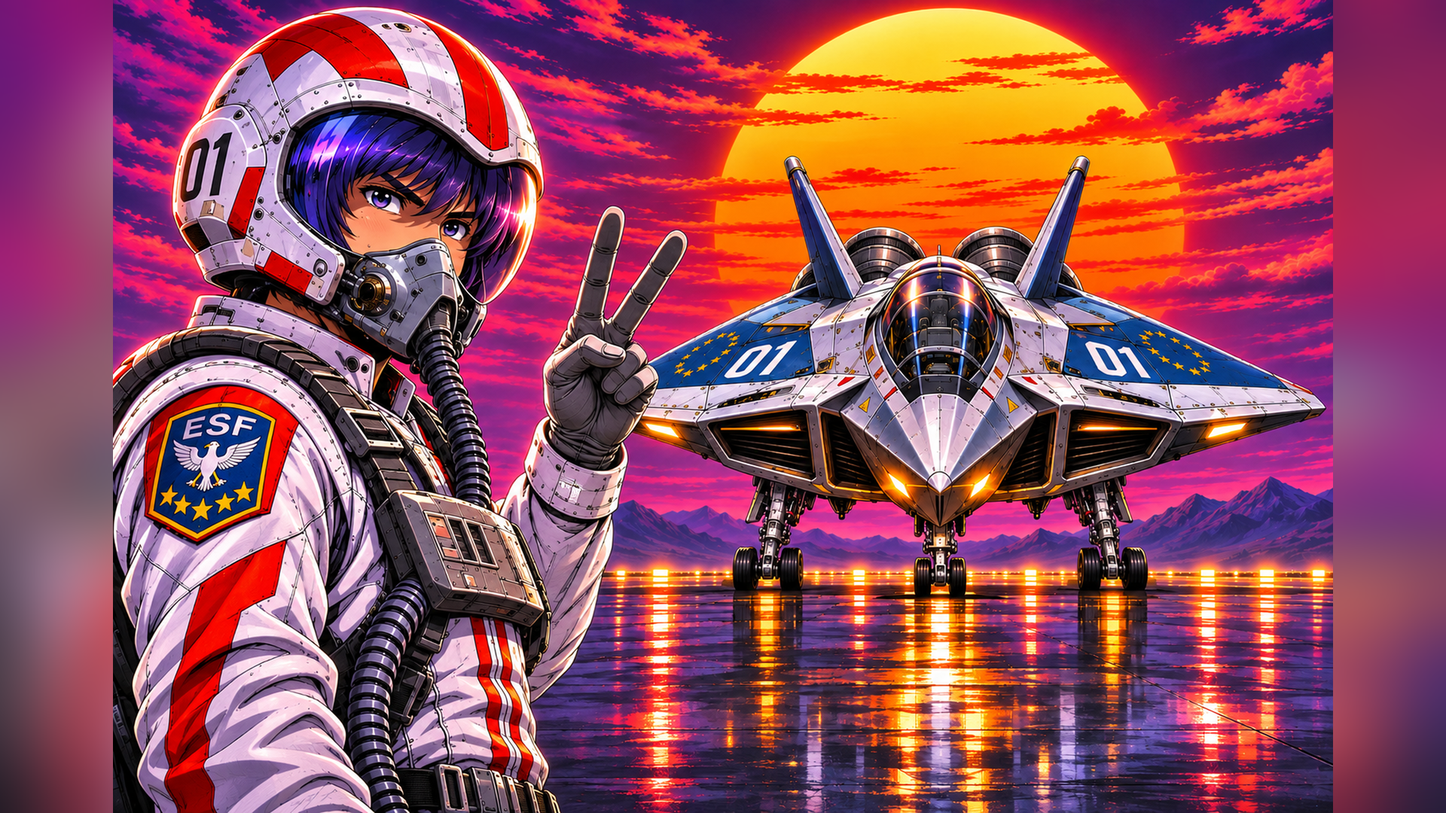
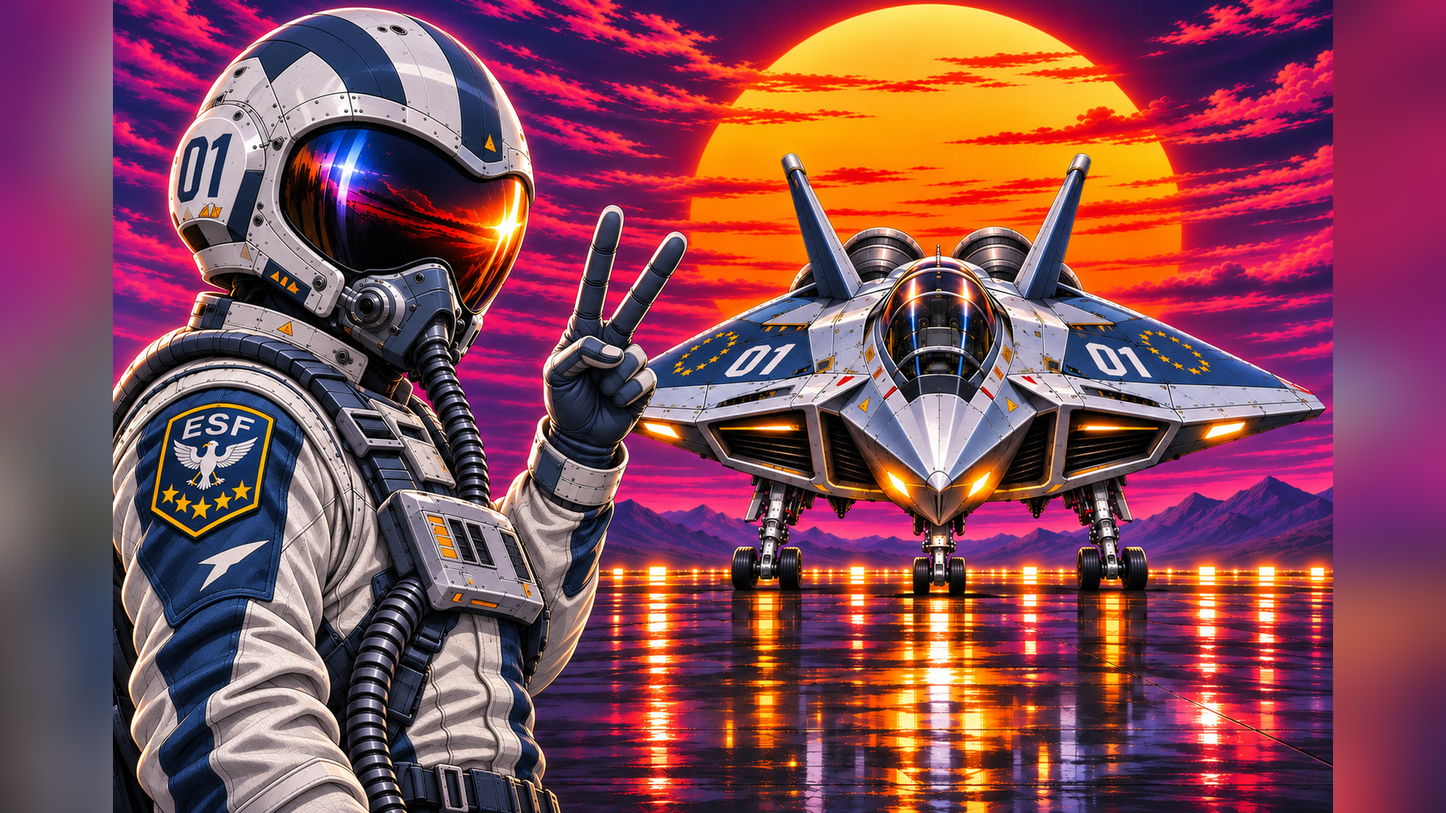
CONTACTO 2010 V1.2.1 — colores oficiales del final y piloto con visor fijo (#7)
* V1.2.1: retrato fijo del piloto con visor RGBA y nuevos recursos final sin tocar AURA-01

* Precisar roles de los retratos: piloto 0 fijo, comandante 2 intacto, AURA-01 3 animado

* QA V1.2.1: verificar retrato fijo piloto con visor en Linux y Windows

* QA V1.2.1: verificar retrato fijo piloto con visor en Linux y Windows

* V1.2.1: nueva escena final colores oficiales y retrato fijo del piloto

diff --git a/fuentes/contacto_native.cpp b/fuentes/contacto_native.cpp
@@ -148,7 +148,7 @@ public:
      SDL_SetTextureBlendMode(scanlineTexture,1);
    }
   struct Item{const char* k;const char* f;};
-  const Item list[]={{"fondo","jupiter.png"},{"mapa","fase1_cementerio_v2_1920x540.png"},{"ship","firebird_01_16f_hd.png"},{"moai","moai_24f.png"},{"sierra","rodante_sierra_24f.png"},{"menor","enemigo_monolito_24f.png"},{"portrait","retratos_definitivos.png"},{"aura","AURA_01_SHEET_RGBA.png"},{"fx_orb","fx_bala_enemiga.png"},{"fx_pulse","fx_pulso.png"},{"fx_laser","fx_laser.png"},{"escudo_nuevo","escudo_firebird_nuevo_4f.png"},{"triangulo","alerta_estalactitas_4f.png"},{"mira","mira_debil_jefes_4f.png"},{"logo","CONTACTO_2010_LOGO_JUEGO.png"},{"marca_tony","tony_c_ware_logo.png"},{"marca_grit","grit_nova_logo_oficial.png"},{"hud","hud_militar_960x120.png"},{"glyph","fuente_legible.png"},
+  const Item list[]={{"fondo","jupiter.png"},{"mapa","fase1_cementerio_v2_1920x540.png"},{"ship","firebird_01_16f_hd.png"},{"moai","moai_24f.png"},{"sierra","rodante_sierra_24f.png"},{"menor","enemigo_monolito_24f.png"},{"portrait","retratos_definitivos.png"},{"pilot_visored","PILOTO_FIREBIRD_01_RETRATO_RGBA.png"},{"aura","AURA_01_SHEET_RGBA.png"},{"fx_orb","fx_bala_enemiga.png"},{"fx_pulse","fx_pulso.png"},{"fx_laser","fx_laser.png"},{"escudo_nuevo","escudo_firebird_nuevo_4f.png"},{"triangulo","alerta_estalactitas_4f.png"},{"mira","mira_debil_jefes_4f.png"},{"logo","CONTACTO_2010_LOGO_JUEGO.png"},{"marca_tony","tony_c_ware_logo.png"},{"marca_grit","grit_nova_logo_oficial.png"},{"hud","hud_militar_960x120.png"},{"glyph","fuente_legible.png"},
    {"hud_white","hud_fuentes/FUENTE_BLANCO_HIELO.png"},{"hud_cyan","hud_fuentes/FUENTE_CIAN_RADAR.png"},{"hud_amber","hud_fuentes/FUENTE_AMBAR_ARMA.png"},{"hud_magenta","hud_fuentes/FUENTE_MAGENTA_ALERTA.png"},{"hud_big","hud_fuentes/FUENTE_NUMEROS_GRANDES.png"},{"hud_smile","hud_fuentes/VIDAS_SMILEYS_RGBA.png"},
    {"fondo2","fase2_fondo_hd.png"},{"mapa2","fase2_terreno.png"},
    // Sierras rodantes compartidas por las fases 1 y 2; sin walkers. 
@@ -165,7 +165,10 @@ public:
    {"cel_devora_di","fase4_celula_devoradora_di.png"},{"cel_devora_id","fase4_celula_devoradora_id.png"},
    {"hijo","fase4_hijo_estrellas.png"}};
   for(const auto&i:list)if(!load(i.k,i.f))return false;
-  if(textures["aura"].w!=2172||textures["aura"].h!=724){
+  if(textures["pilot_visored"].w!=512||textures["pilot_visored"].h!=512){
+    std::cerr<<"Piloto Firebird-01: retrato estatico requerido 512x512 PNG RGBA\n";return false;
+   }
+   if(textures["aura"].w!=2172||textures["aura"].h!=724){
     std::cerr<<"AURA-01: atlas incorrecto; se necesita 2172x724 con 12 fotogramas\n";return false;
   }
   std::ifstream g(base+"terreno.bin",std::ios::binary);uint32_t n=0;g.read((char*)&n,4);
@@ -741,21 +744,23 @@ public:
 
  std::string num(int n){std::ostringstream s;s<<std::setw(7)<<std::setfill('0')<<n;return s.str();}
  void portrait(int role,int frame,int x,int y,int w,int h){
-   // AURA-01, computadora de Firebird-01: animacion RGBA 6x2, 12 frames.
+   // Retrato fijo del piloto (rol 0): visor opaco, nunca parpadea.
+   // Centrado, sin distorsion, en la casilla original de radio/briefing.
+   if(role==0){
+     const int side=std::min(w,h),cx=x+w/2,cy=y+h/2;
+     image("pilot_visored",cx-side/2,cy-side/2,side,side);return;
+   }
+   // AURA-01 (rol 3): su animacion original de 12 fotogramas sigue intacta.
    if(role==3){
-      // Centrado geométrico exacto: tanto el ojo como el marco del atlas son cuadrados.
-      // El mismo centro de la casilla se respeta en radio, briefing y pre-jefe.
-      const int side=std::min(w,h);
-      const int cx=x+w/2,cy=y+h/2;
-      sprite("aura",6,362,362,frame%12,cx-side/2,cy-side/2,side,side);
-      return;
-    }
+     const int side=std::min(w,h),cx=x+w/2,cy=y+h/2;
+     sprite("aura",6,362,362,frame%12,cx-side/2,cy-side/2,side,side);return;
+   }
    sprite("portrait",8,112,140,role*8+frame,x,y,w,h);
-  }
+ }
  void draw_radio(){if(radio.life<=0)return;
   const int y=447;box(18,y,734,82,{5,19,38,232},{53,133,185});line(20,y+2,750,y+2,CYAN);
   int frame=(int(radio.elapsed*7)%9<6)?int(radio.elapsed*7)%4:(6+int(radio.elapsed*4)%2);
-  const int radioFrame=(radio.role==3)?int(radio.elapsed*10.f)%12:frame;
+  const int radioFrame=radio.role==0?0:radio.role==3?int(radio.elapsed*10.f)%12:frame;
    portrait(radio.role,radioFrame,24,y+1,68,80);
   text(radio.who+":",114,y+9,21,CYAN);
   const std::string& m=radio.msg;auto p=m.find('|');
@@ -2356,6 +2361,15 @@ void message(int role,const std::string&who,const std::string&msg,float duration
         <<" on="<<on<<" protege="<<protects<<" record_intacto="<<recordProtected
         <<" entre_fases="<<persists<<" off="<<off<<" dano_normal="<<normalDamage<<" nuevo_juego="<<resets<<"\n";
     return ok?0:15;
+  }
+  if(argc>=2 && std::string(argv[1])=="--self-test-piloto-visor"){
+    const bool pilot=textures.count("pilot_visored") && textures["pilot_visored"].t
+        && textures["pilot_visored"].w==512 && textures["pilot_visored"].h==512;
+    // Asegura el retrato del piloto en radio y briefing, no anima la imagen.
+    radio.role=0;radio.life=5.f;radio.elapsed=1.f;radio.who="PILOTO";radio.msg="PRUEBA DE RADIO";
+    mode=PLAY;render();radio.elapsed=2.f;render();
+    std::cout<<"PILOTO VISOR FIJO: "<<(pilot?"OK":"ERROR")<<"\n";
+    return pilot?0:52;
   }
   if(argc>=2 && std::string(argv[1])=="--self-test-aura"){
     bool atlas=textures.count("aura") && textures["aura"].t
